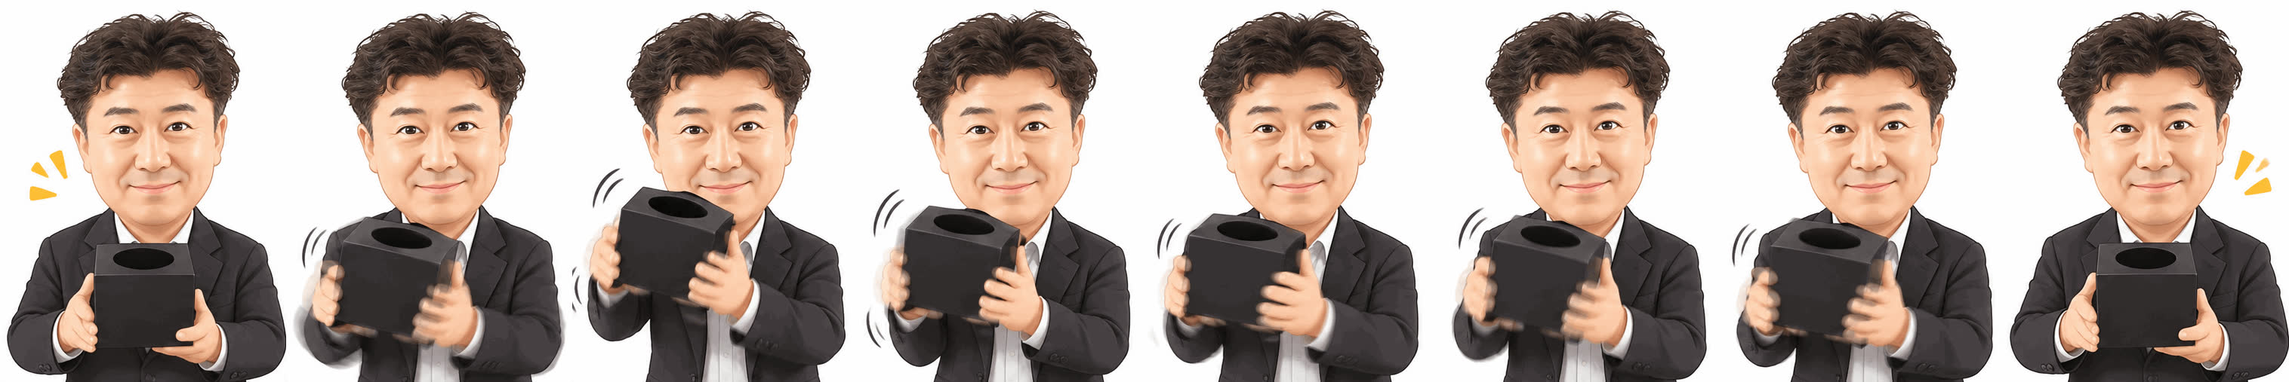
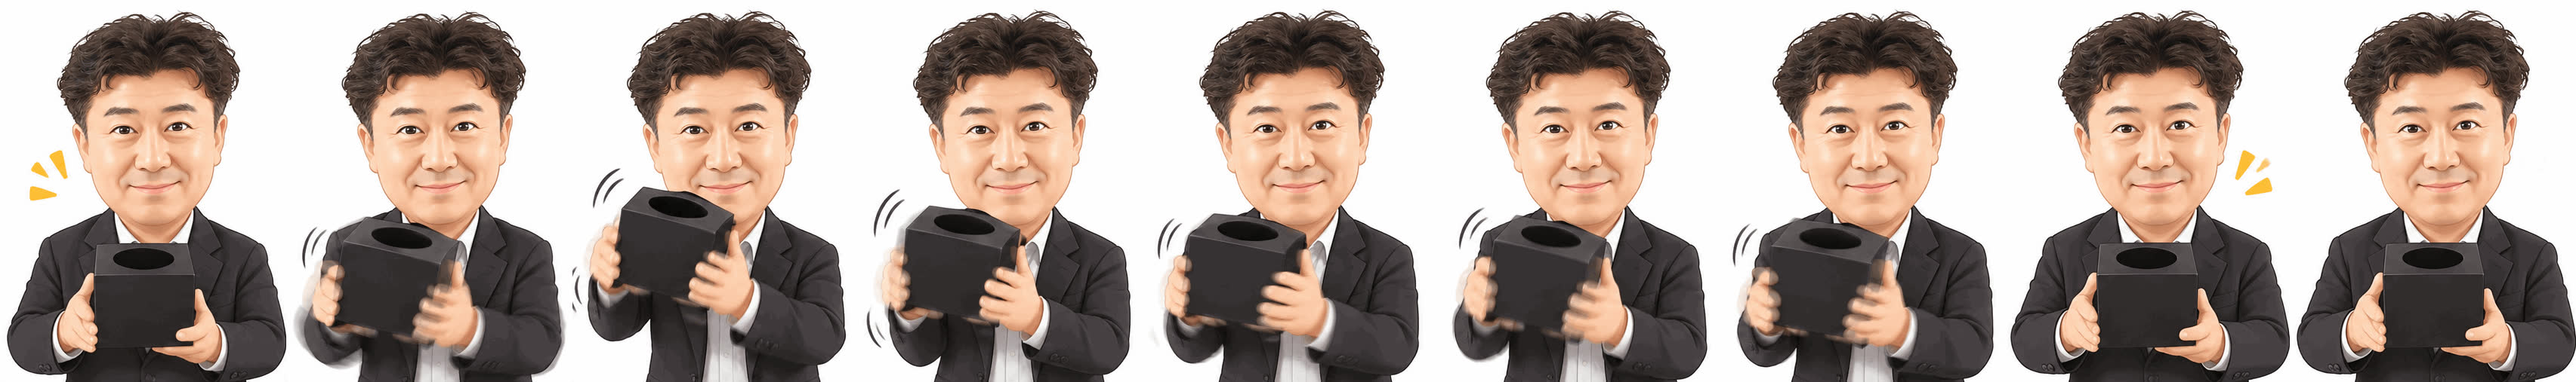
뽑기 장면: 뽑은 팀 색 공이 상자에서 튀어나와 떠 있는 그림으로 교체
- 공 GIF 4개에서 쓸 18컷(튀어나오기 13 + 떠서 반짝이기 5)만 뽑아 ball_팀.jpg로 추가
- CSS로 그리던 공은 삭제. 결과가 오면 그 팀 그림을 받은 뒤 장면을 넘김
- shake.jpg에 반짝임 없이 상자를 든 컷(9번째)을 덧붙여 공 그림의 밑그림으로 사용

diff --git a/index.html b/index.html
@@ -13,10 +13,10 @@
   <style>
     .me { display: flex; justify-content: space-between; align-items: baseline; gap: 8px; margin-bottom: 16px; }
     .me b { font-size: 17px; }
-    /* 뽑기 장면: 상자를 흔드는 진행자(shake.jpg = 8컷을 가로로 붙인 그림) + 팀 공. 바탕은 그림 배경색과 같게 */
+    /* 뽑기 장면: 상자를 흔드는 진행자(shake.jpg = 9컷을 가로로 붙인 그림) + 팀 공. 바탕은 그림 배경색과 같게 */
     .scene { position: relative; height: 270px; margin: 0 0 12px; background: #fefefe; border-radius: 18px; }
     .figure { position: relative; height: 100%; aspect-ratio: 379 / 507; margin: 0 auto; transform-origin: 50% 85%; }
-    .sprite { width: 100%; height: 100%; background: url(shake.jpg) 0 0 / 800% 100% no-repeat; }
+    .sprite { width: 100%; height: 100%; background: url(shake.jpg) 0 0 / 900% 100% no-repeat; }
     .scene[data-state="shake"] .figure { animation: jiggle .24s linear infinite; }
     @keyframes jiggle { 25% { transform: rotate(-1.2deg); } 75% { transform: rotate(1.2deg); } }
     /* 말풍선: 누르기 전에만 */
@@ -27,13 +27,9 @@
                      background: inherit; border-radius: 2px; transform: rotate(45deg); }
     .scene:not([data-state="idle"]) .bubble { display: none; }
     @keyframes nudge { 50% { transform: translateY(-4px); } }
-    /* 팀 공: 머리 오른쪽에 떠 있음. 색·글자색은 style.css의 .team-* */
-    .ball { position: absolute; left: 104%; top: 22%; width: 36%; aspect-ratio: 1; translate: -50% -50%; border-radius: 50%;
-            display: grid; place-items: center; font-size: 18px; font-weight: 800;
-            box-shadow: inset -5px -7px 0 rgba(0, 0, 0, .15), 0 6px 14px rgba(0, 0, 0, .25); }
-    .ball::before { content: ''; position: absolute; left: 20%; top: 15%; width: 24%; height: 17%; border-radius: 50%; background: rgba(255, 255, 255, .45); }
-    .ball .ring { position: absolute; inset: -16%; border-radius: 50%; border: 4px dotted var(--accent); opacity: 0; }
-    .scene:not([data-state="done"]) .ball { display: none; }
+    /* 팀 공: 뽑은 뒤 진행자 그림을 덮는 그림(ball_팀.jpg = 상자에서 공이 튀어나와 떠 있는 18컷을 가로로 붙인 그림). 어느 팀 그림인지는 paint()가 정함 */
+    .pop { position: absolute; inset: 0; background: 0 0 / 1800% 100% no-repeat; }
+    .scene:not([data-state="done"]) .pop { display: none; }
     #randomBtn:not(:disabled) { animation: breathe 1.8s ease-in-out infinite; }
     @keyframes breathe { 50% { transform: scale(1.02); box-shadow: 0 0 0 6px color-mix(in srgb, var(--accent) 25%, transparent); } }
     .result-text { text-align: center; font-size: 17px; margin: 0 0 16px; min-height: 1.5em; }
@@ -67,7 +63,7 @@
     <div class="scene" id="scene" role="img" aria-label="진행자가 뽑기함을 들고 기다리고 있어요" data-state="idle">
       <div class="figure">
         <div class="sprite" id="sprite"></div>
-        <div class="ball" id="ball"><span id="ballText"></span><span class="ring" id="ring"></span></div>
+        <div class="pop" id="pop"></div>
       </div>
       <div class="bubble">눌러봐요!</div>
     </div>
@@ -82,51 +78,56 @@
 
   const reduced = () => matchMedia('(prefers-reduced-motion: reduce)').matches;
 
-  // 진행자 그림: 0·7번 컷은 상자를 들고 있고, 1~6번 컷은 상자를 흔듦
+  // 진행자 그림(shake.jpg): 0·7번 컷은 상자를 들고 있고(옆에 주황 반짝임), 1~6번 컷은 상자를 흔듦
   const IDLE = [0, 1, 2, 3, 4, 5, 6, 7];           // 원래 GIF처럼 한 컷 0.45초
   const SHAKE = [1, 2, 3, 4, 5, 6, 5, 4, 3, 2];    // 뽑는 중: 흔드는 컷만 빠르게 왔다 갔다
-  let spriteTimer = 0;
-  const frame = (i) => { $('#sprite').style.backgroundPositionX = `${(i * 100) / 7}%`; };
-  function play(frames, ms) {
-    clearTimeout(spriteTimer);
+  const HOLD = 8;                                  // 반짝임 없이 상자를 든 컷. 팀 공 그림의 밑그림(공 그림 0번 컷과 같은 자세)
+  // 팀 공 그림(ball_팀.jpg): 0~12번 컷은 공이 상자에서 튀어나오고, 12~17번 컷은 공이 상자 위에 떠서 반짝임
+  const POP = [0, 1, 2, 3, 4, 5, 6, 7, 8, 9, 10, 11, 12];
+  const POP_MS = [90, 90, 90, 90, 90, 90, 150, 70, 70, 70, 70, 70, 80]; // 컷마다 머무는 시간(원래 GIF 그대로)
+  const FLOAT = [13, 14, 13, 12, 15, 16, 15, 17];  // 한 컷 0.1초로 계속 되풀이
+
+  // 컷을 가로로 n장 붙인 그림에서 i번 컷을 보여주는 함수를 만듦
+  const cutter = (el, n) => (i) => { el.style.backgroundPositionX = `${(i * 100) / (n - 1)}%`; };
+  const figureCut = cutter($('#sprite'), 9);
+  const ballCut = cutter($('#pop'), 18);
+
+  let timer = 0;
+  // cuts를 차례로 보여줌. ms = 한 컷 시간(컷마다 다르면 배열). 끝까지 가면 then()을 부르고, then이 없으면 처음부터 되풀이
+  function play(show, cuts, ms, then) {
+    clearTimeout(timer);
     let k = 0;
-    const tick = () => { frame(frames[k++ % frames.length]); spriteTimer = setTimeout(tick, ms); };
+    const tick = () => {
+      if (k === cuts.length) { if (then) return then(); k = 0; }
+      show(cuts[k]);
+      timer = setTimeout(tick, ms[k] ?? ms);
+      k++;
+    };
     tick();
   }
-  function still(i = 0) { clearTimeout(spriteTimer); frame(i); }
+  function still(i = 0) { clearTimeout(timer); figureCut(i); }
 
-  // team 없으면 대기 장면(상자 흔들기 + 말풍선), 있으면 공이 떠 있는 결과 장면. landed면 공이 상자에서 튀어나옴
+  // team 없으면 대기 장면(상자 흔들기 + 말풍선), 있으면 그 팀 색 공이 상자 위에 떠 있는 결과 장면. landed면 공이 상자에서 튀어나오는 것부터 보여줌
   function paint(team, landed = false) {
     const scene = $('#scene');
     scene.dataset.state = team ? 'done' : 'idle';
-    $('#ball').className = 'ball' + (team ? ` team-${team}` : '');
-    $('#ballText').textContent = team ? TEAMS[team] : '';
     scene.setAttribute('aria-label', team ? `진행자가 ${TEAMS[team]}팀 공을 꺼냈어요` : '진행자가 뽑기함을 들고 기다리고 있어요');
-    if (team || reduced()) still(0); else play(IDLE, 450);
-    if (landed && !reduced()) {
-      // 상자 구멍(그림 가로 50%·세로 68%)에서 얼굴을 피해 오른쪽으로 돌아 공 자리(가로 104%·세로 22%)까지 튀어 오름
-      const f = $('.figure').getBoundingClientRect();
-      const at = (x, y, s, more = {}) => ({ transform: `translate(${(x - 1.04) * f.width}px, ${(y - 0.22) * f.height}px) scale(${s})`, ...more });
-      $('#ball').animate([
-        at(0.5, 0.68, 0.2, { opacity: 0 }),
-        at(0.62, 0.62, 0.45, { opacity: 1, offset: 0.25 }),
-        at(0.9, 0.46, 0.8, { offset: 0.55 }),
-        at(1.04, 0.22, 1.15, { offset: 0.8 }),
-        { transform: 'none' },
-      ], { duration: 1100, easing: 'ease-out' });
-      $('#ring').animate([{ opacity: 0, transform: 'scale(.7)' }, { opacity: 1, offset: 0.3 }, { opacity: 0, transform: 'scale(1.5)' }],
-        { duration: 700, delay: 800, easing: 'ease-out' });
-      $('#resultText').animate([{ opacity: 0 }, { opacity: 0, offset: 0.7 }, { opacity: 1 }], { duration: 1100 }); // 공이 자리 잡을 때 문구
-    }
+    $('#pop').style.backgroundImage = team ? `url(ball_${team}.jpg)` : '';
+    if (!team) return reduced() ? still() : play(figureCut, IDLE, 450);
+    still(HOLD); // 공 그림이 덮기 전이나 못 받았을 때 비치는 밑그림
+    if (reduced()) return ballCut(FLOAT[0]);
+    if (!landed) return play(ballCut, FLOAT, 100);
+    play(ballCut, POP, POP_MS, () => play(ballCut, FLOAT, 100));
+    $('#resultText').animate([{ opacity: 0 }, { opacity: 0, offset: 0.7 }, { opacity: 1 }], { duration: 1100 }); // 공이 다 올라왔을 때 문구
   }
 
-  function showMe() {
+  function showMe(landed = false) {
     $('#loginCard').hidden = true;
     $('#meCard').hidden = false;
     $('#whoDept').textContent = me.dept;
     $('#whoName').textContent = me.name;
     if (me.team) {
-      paint(me.team);
+      paint(me.team, landed);
       $('#resultText').innerHTML = `<b>${TEAMS[me.team]}팀</b>이에요!`;
       $('#randomBtn').hidden = true;
     } else {
@@ -139,7 +140,7 @@
   async function showLogin() {
     me = null;
     store.set(ME_KEY, null);
-    still(0);
+    still();
     $('#meCard').hidden = true;
     $('#loginCard').hidden = false;
     const depts = await rpc('departments');
@@ -164,14 +165,26 @@
 
   $('#logout').addEventListener('click', guard(showLogin));
 
-  // 상자를 힘차게 흔들다가(결과 올 때까지, 최소 1.8초) 결과로 넘어감. 실패하면 바로 throw → 호출한 쪽에서 대기 장면으로
+  // 그림을 다 받을 때까지 기다림. 못 받아도 4초 뒤에는 그냥 넘어감(그림은 받는 대로 나타남)
+  const fetched = (src) => new Promise((done) => {
+    const img = new Image();
+    img.onload = img.onerror = done;
+    img.src = src;
+    setTimeout(done, 4000);
+  });
+
+  // 상자를 힘차게 흔들다가 결과로 넘어감. 결과가 오고 그 팀 공 그림까지 받아야 넘어가고, 아무리 빨라도 1.8초는 흔듦.
+  // 실패하면 바로 throw → 호출한 쪽에서 대기 장면으로
   async function drawBall(resultPromise) {
     if (reduced()) return resultPromise;
     const scene = $('#scene');
     scene.dataset.state = 'shake';
     scene.setAttribute('aria-label', '진행자가 뽑기함을 힘차게 흔들고 있어요');
-    play(SHAKE, 90);
-    const [team] = await Promise.all([resultPromise, sleep(1800)]);
+    play(figureCut, SHAKE, 90);
+    const [team] = await Promise.all([
+      resultPromise.then(async (t) => { await fetched(`ball_${t}.jpg`); return t; }),
+      sleep(1800),
+    ]);
     return team;
   }
 
@@ -181,8 +194,7 @@
     $('#resultText').textContent = '두구두구…';
     try {
       me.team = await drawBall(rpc('pick', { p_dept: me.dept, p_name: me.name }));
-      showMe();
-      paint(me.team, true);
+      showMe(true);
     } catch (e) {
       showMe(); // 실패하면 원래 상태로
       throw e;

diff --git a/README.md b/README.md
@@ -55,5 +55,6 @@
 | `board.html` | 진행자 화면 (현황·명단 관리) |
 | `common.js` | Supabase 연결 설정, 두 화면이 같이 쓰는 코드 |
 | `style.css` | 공통 스타일 |
-| `shake.jpg` | 참가자 화면의 진행자 그림 (상자를 흔드는 8컷을 가로로 붙인 그림) |
+| `shake.jpg` | 참가자 화면의 진행자 그림 (상자를 흔드는 8컷 + 가만히 든 1컷을 가로로 붙인 그림) |
+| `ball_red.jpg` 등 4개 | 뽑은 팀 색 공이 상자에서 튀어나와 떠 있는 그림 (18컷을 가로로 붙인 그림, 팀마다 하나) |
 | `supabase.sql` | 테이블·함수·권한 (SQL Editor에서 실행) |
